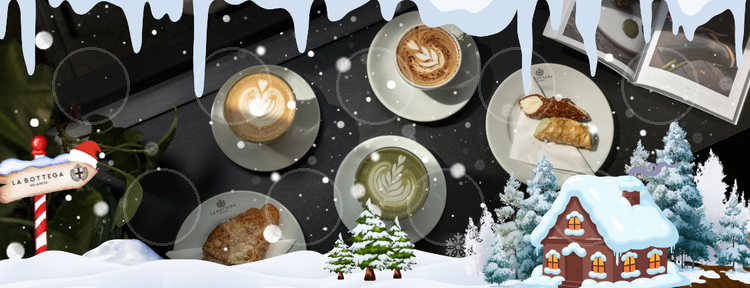
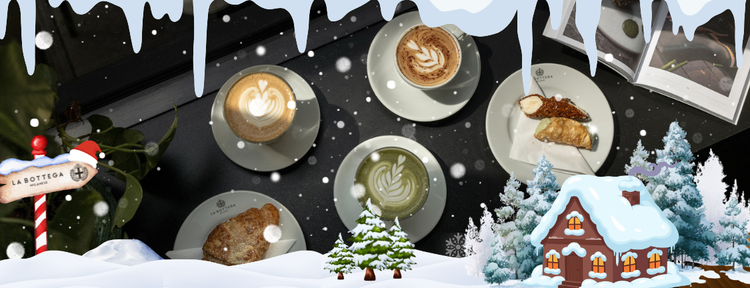
No stamp grid at zero points; it appears with the first point

diff --git a/scripts/build-pass-art.py b/scripts/build-pass-art.py
@@ -46,9 +46,12 @@ def fit_strip(src, scale):
 def stamp_row(strip, filled, scale, bean):
     """A stamp-card grid over the photo: five circles on the top row, four
     centred beneath. Empty stamps are a barely-there outline; a filled stamp
-    is a cream disc with the bean. No dark band: the photo stays as shot."""
+    is a cream disc with the bean. No dark band: the photo stays as shot.
+    At zero points nothing is drawn at all."""
     w, h = strip.size
     out = strip.copy()
+    if filled <= 0:
+        return out  # no points yet: just the photo; the grid appears with the first point
     diameter = int(h * 0.27)
     ring = max(1, round(1.6 * scale))
     margin_x = int(w * 0.07)
